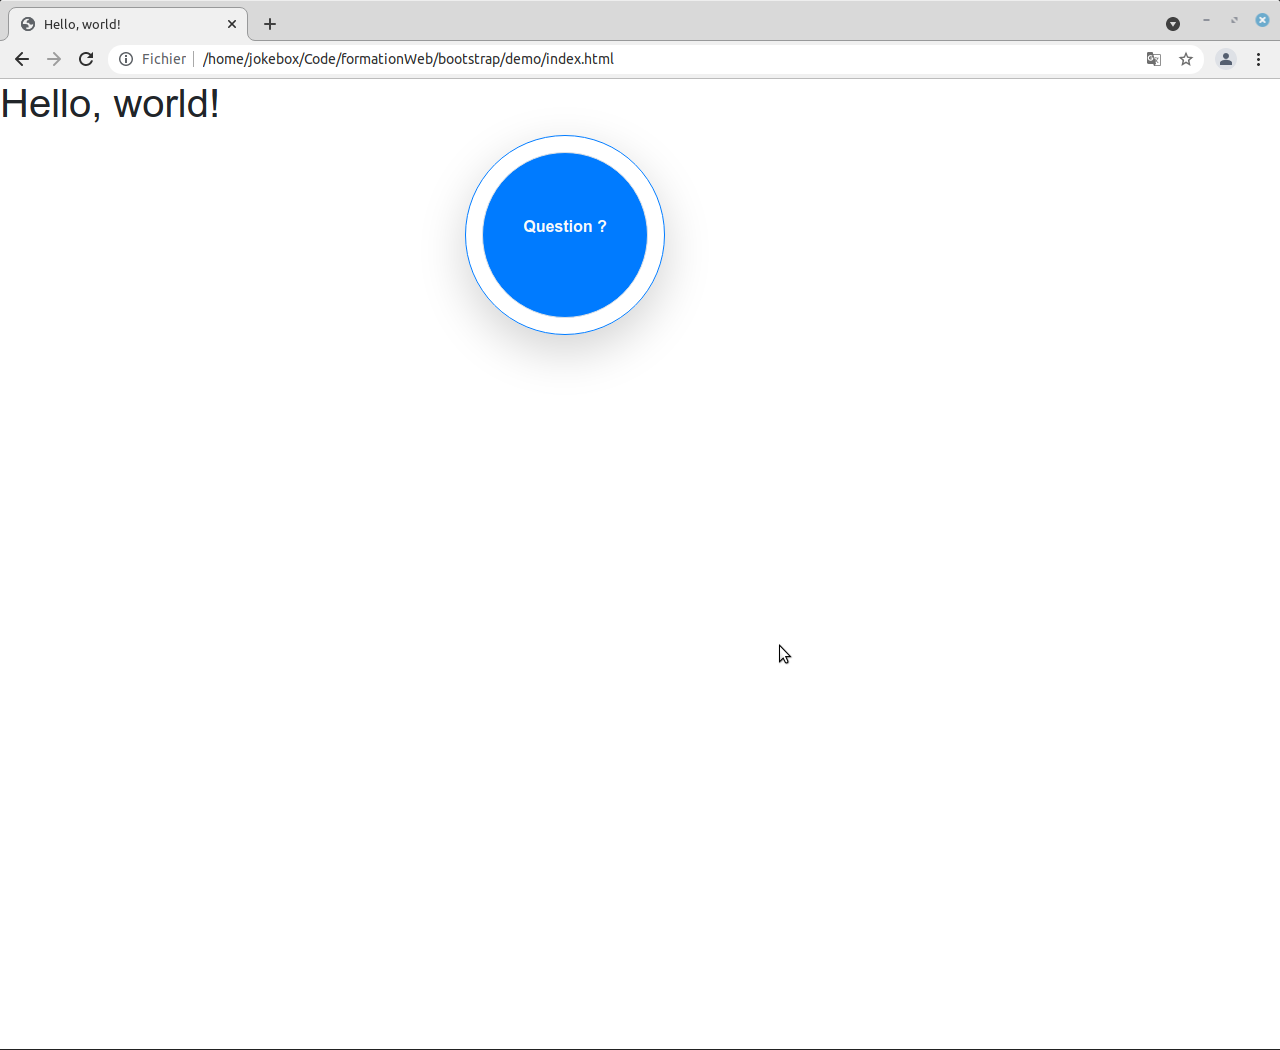
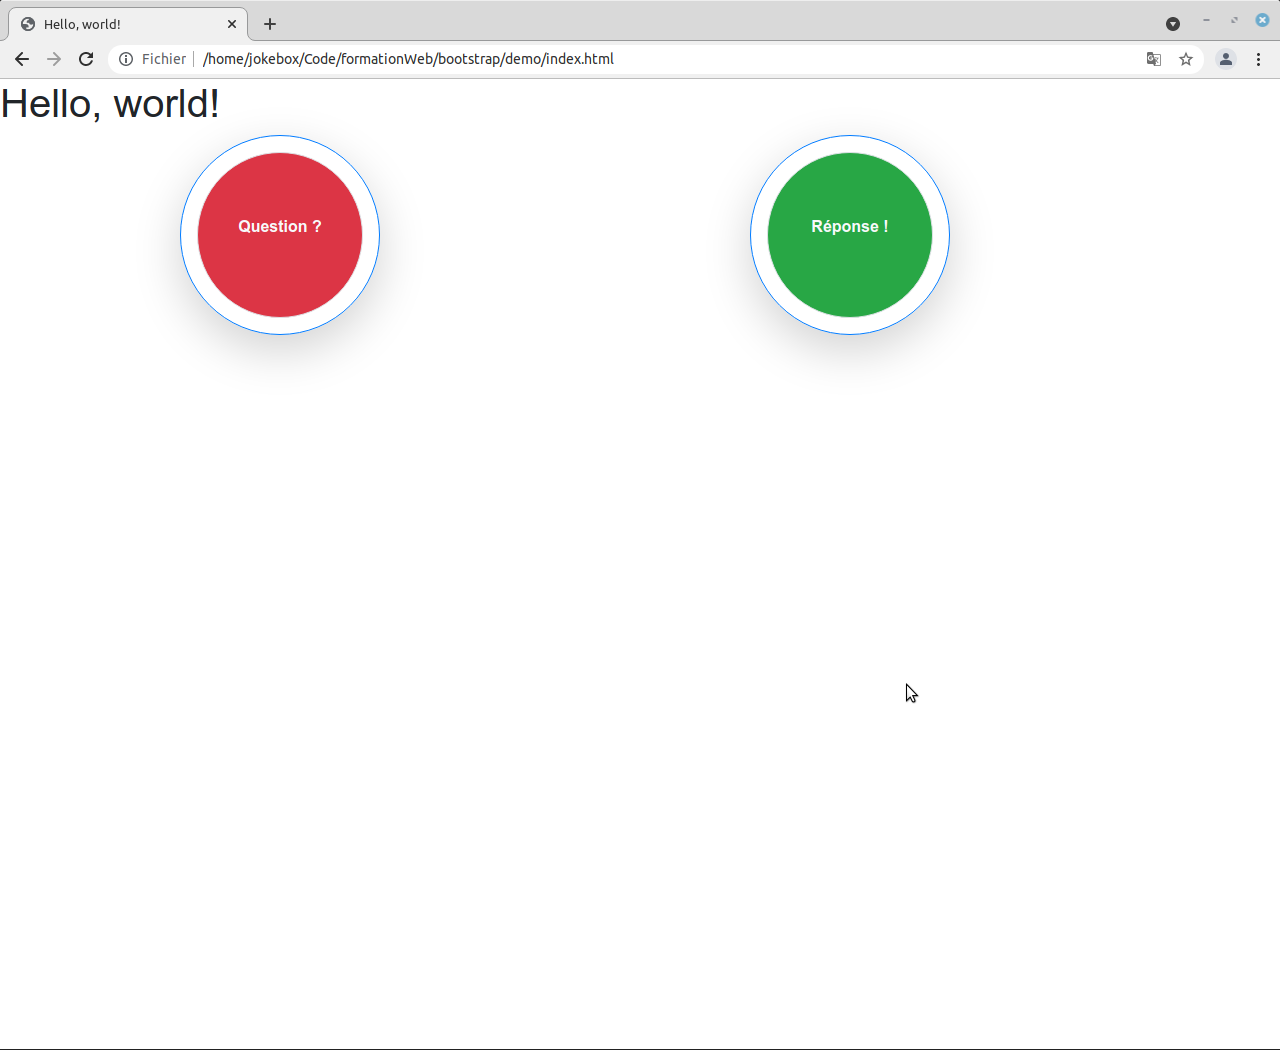
Ajoute justify-space-around

Changed region(s): [[0.5938, 0.1219, 0.75, 0.3352], [0.375, 0.1219, 0.5312, 0.3352], [0.125, 0.1219, 0.3125, 0.3352]]

diff --git a/bootstrap/demo/index.html b/bootstrap/demo/index.html
@@ -24,7 +24,7 @@
   <h1>Hello, world!</h1>
 
   <div class="container">
-    <div class="row justify-content-center">
+    <div class="row justify-content-around">
       <div class="col col-4">
         <div
         class="
@@ -39,7 +39,7 @@
         <div class="
               rounded-circle
               border
-              bg-primary
+              bg-danger
               h-100
               w-100
               d-flex
@@ -49,6 +49,29 @@
           </div>
         </div>
       </div>
+      <div class="col col-4">
+        <div
+        class="
+            border
+            border-primary
+            p-3
+            shadow-lg
+            rounded-circle
+          "
+        style="height: 200px; width: 200px;"
+      >
+        <div class="
+              rounded-circle
+              border
+              bg-success
+              h-100
+              w-100
+              d-flex
+              align-items-center
+            ">
+          <p class="text-center text-light font-weight-bold w-100">Réponse !</p>
+          </div>
+        </div>
     </div>
 
       <!-- Optional JavaScript; choose one of the two! -->
